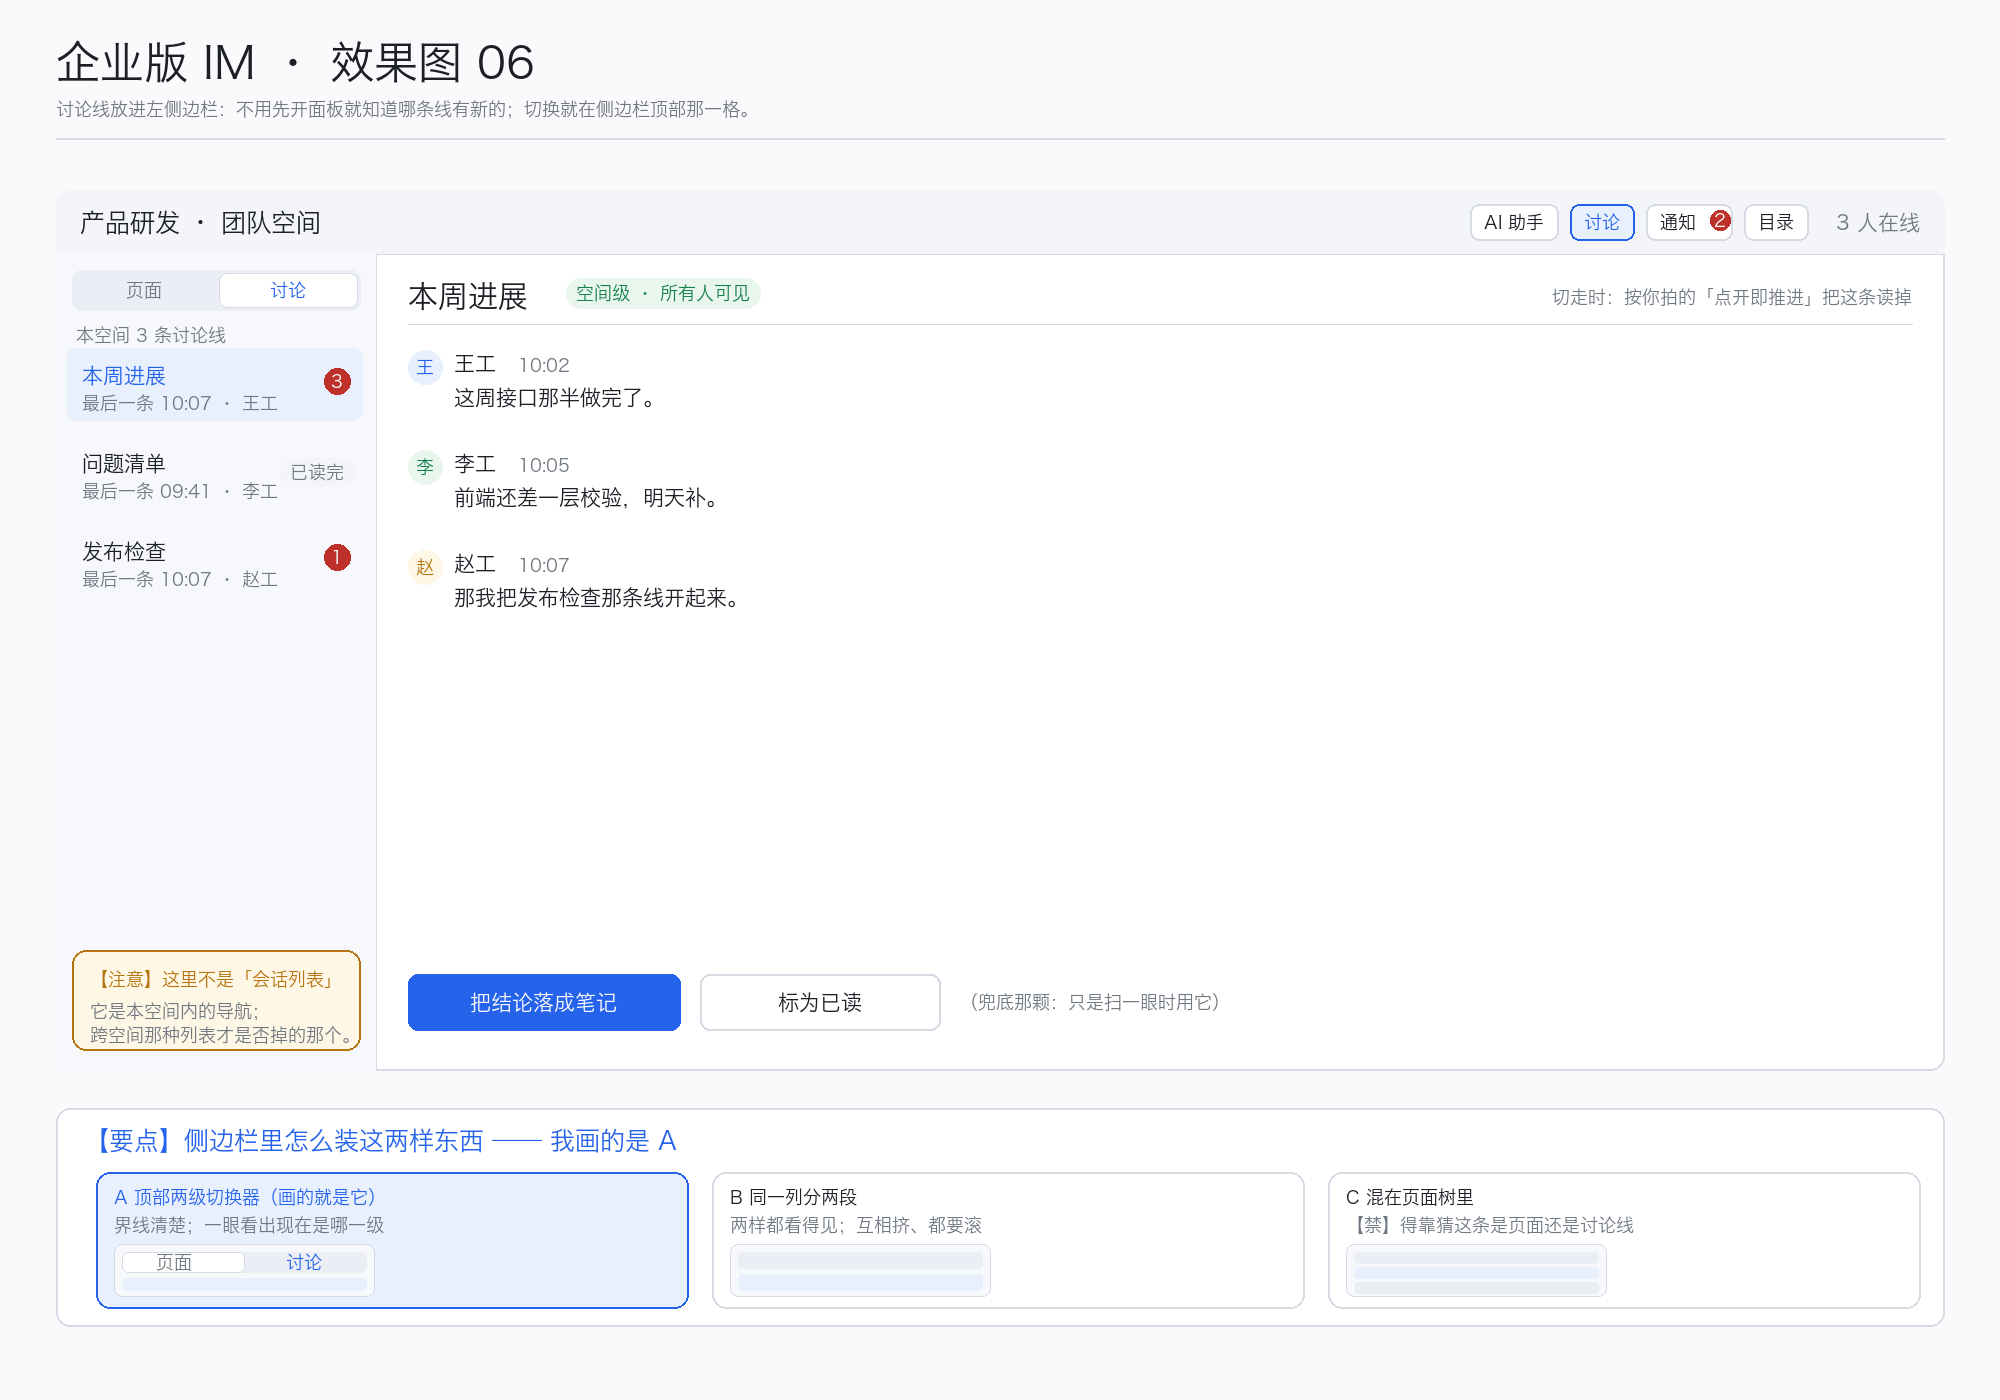
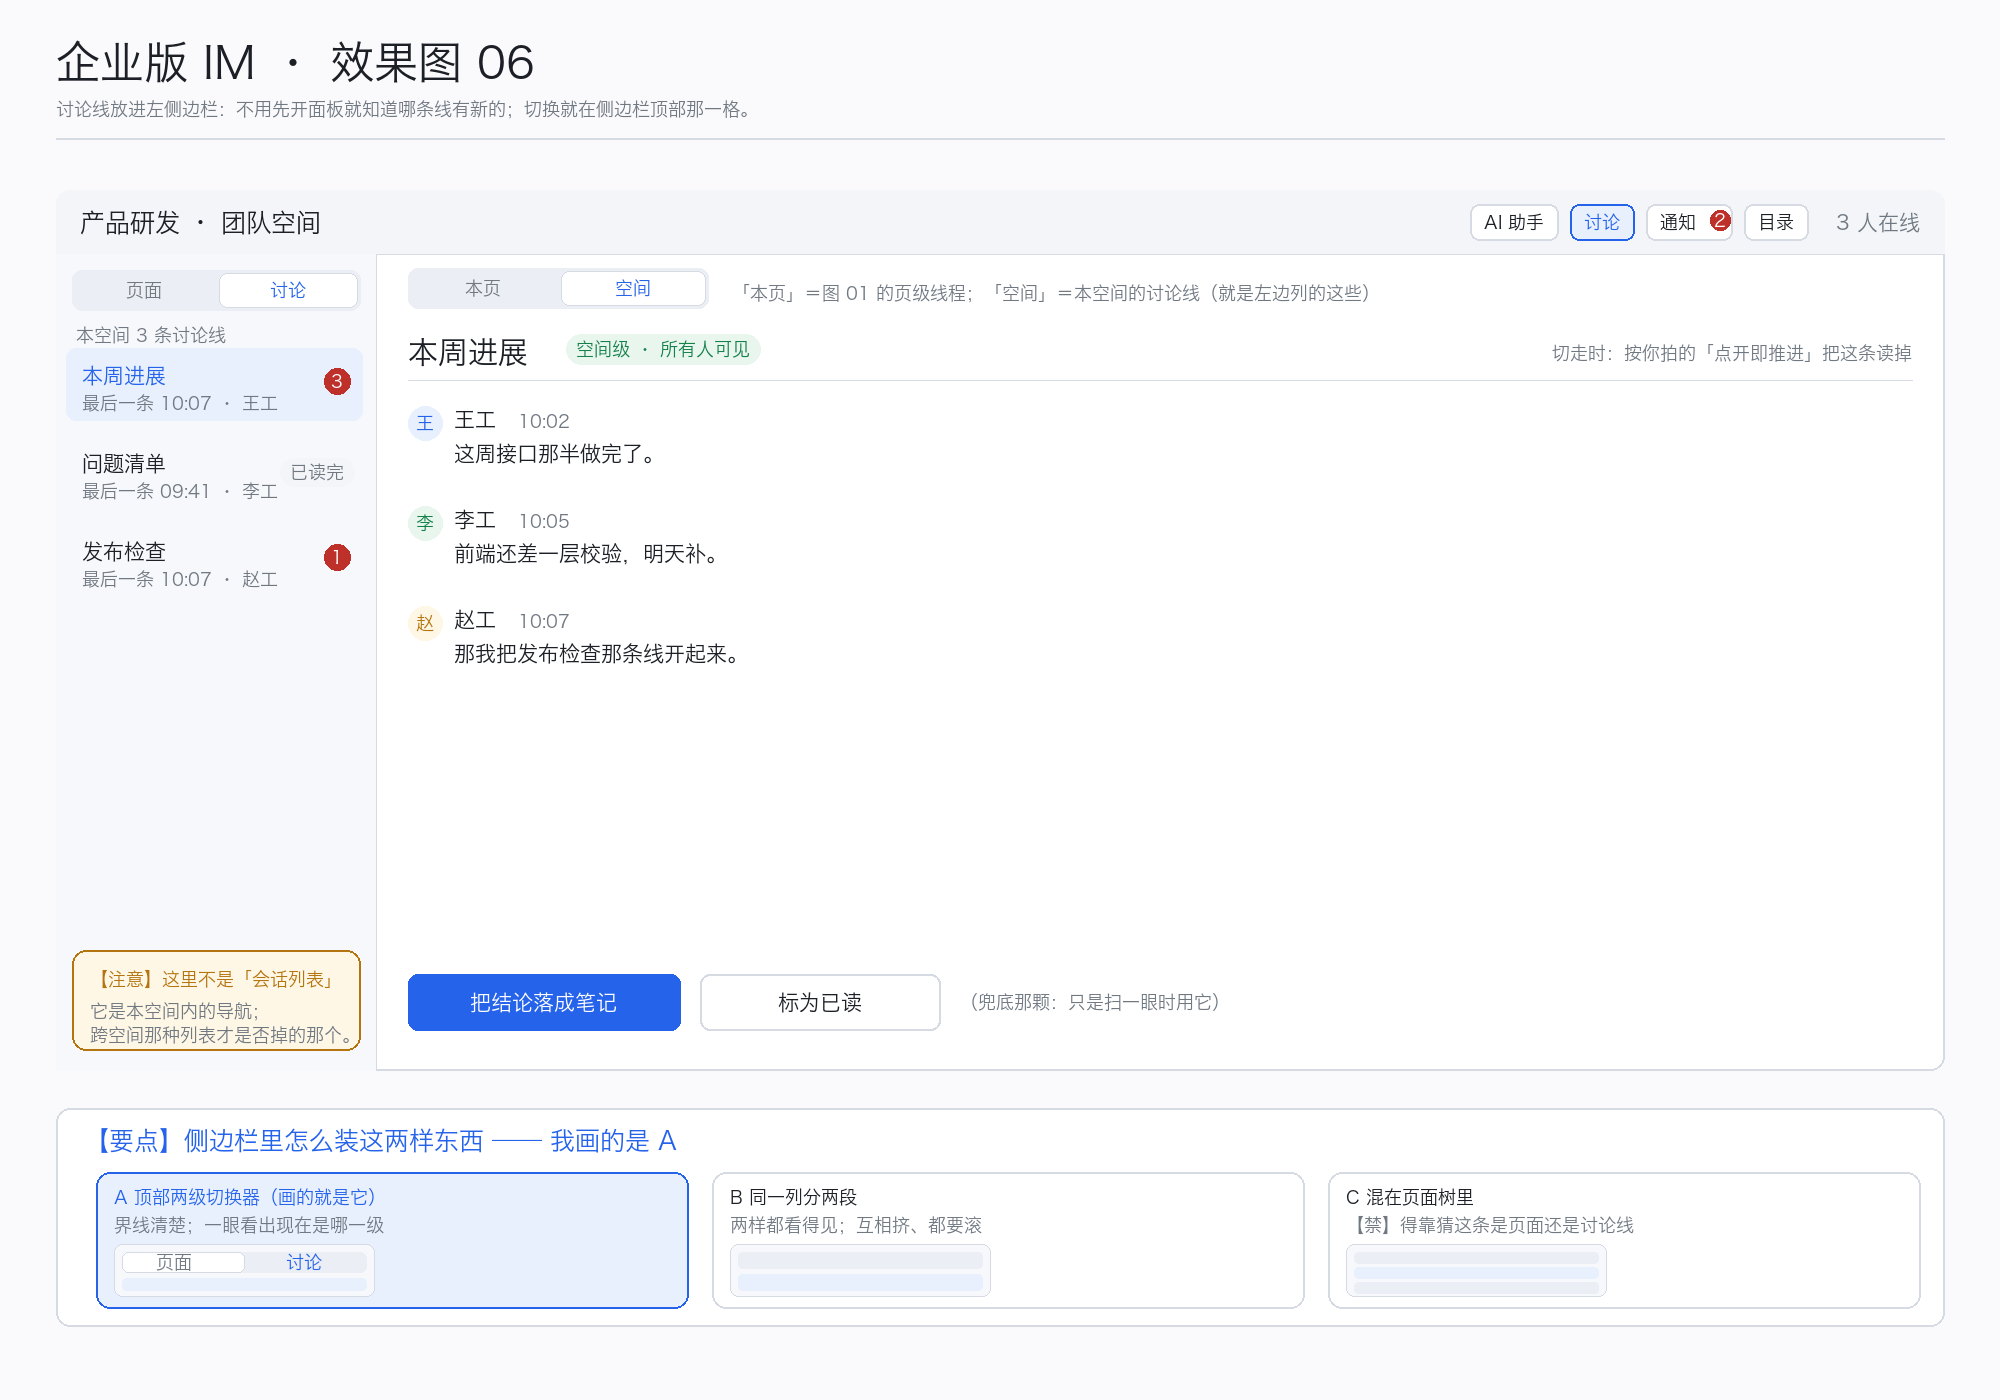
docs(design): 图 06 补两级标签页「本页 ｜ 空间」＋ 记下两条导航口径（owner 2026-10-01 已定）
owner 追加两条导航口径（都选 A）：
① 默认落在**上次那条**线（不是"未读最多"、也不是"总回第一条"）
② 页级与空间级用**两个标签页「本页 ｜ 空间」**（不是左右两栏、也不是一次只显一级）

图 06 相应补上：主区顶部那一行「本页 ｜ 空间」标签（空间选中）＋一行说明
（「本页」＝图 01 的页级线程；「空间」＝侧边栏那一列讨论线），并标明：
- "切走"就是"读过"的触发点 ⇒ 切线与标为已读是同一个动作
- 这两条**只写在设计层**（用户选择的是"先加效果图"，没让我新增规格那一节）
- ⚠ "导航与切换"在规格里**仍是空白**（写了数据形状／未读口径／频道落库，导航一个字没有）

读数：六张字形检查全部干净；check-doc-links 223 篇／1311 条全可达；
node scripts/test-report.mjs ⇒ 58 条门禁／失败 0／环境不具备 0／自报跳过 1。

diff --git a/design/enterprise-im/draw-im-mockups.py b/design/enterprise-im/draw-im-mockups.py
@@ -501,14 +501,17 @@ def sheet6():
     s.small(sx + 34, sy + sh - 44, "跨空间那种列表才是否掉的那个。", MUT)
     # 右侧：选中那条线
     mx, mw = ax + sw, aw - sw
-    s.t(mx + 32, sy + 26, "本周进展", F_H)
-    s.chip(mx + 190, sy + 24, "空间级 · 所有人可见", GREEN, GREEN_BG, h=30)
-    s.small(mx + mw - 32, sy + 34, "切走时：按你拍的「点开即推进」把这条读掉", MUT, "ra")
-    s.rule(mx + 32, sy + 70, mx + mw - 32)
+    # ⭐ 两级标签页「本页 ｜ 空间」（owner 2026-10-01 选 A）：页级线程与空间级线在这里切
+    s.switch2(mx + 32, sy + 14, 300, "本页", "空间", "空间")
+    s.small(mx + 356, sy + 30, "「本页」＝图 01 的页级线程；「空间」＝本空间的讨论线（就是左边列的这些）", MUT)
+    s.t(mx + 32, sy + 82, "本周进展", F_H)
+    s.chip(mx + 190, sy + 80, "空间级 · 所有人可见", GREEN, GREEN_BG, h=30)
+    s.small(mx + mw - 32, sy + 90, "切走时：按你拍的「点开即推进」把这条读掉", MUT, "ra")
+    s.rule(mx + 32, sy + 126, mx + mw - 32)
     msgs = [("王", "10:02", "这周接口那半做完了。", BLUE_BG, BLUE),
             ("李", "10:05", "前端还差一层校验，明天补。", GREEN_BG, GREEN),
             ("赵", "10:07", "那我把发布检查那条线开起来。", AMBER_BG, AMBER)]
-    yy = sy + 96
+    yy = sy + 152
     for who, tm, text, bg, fg in msgs:
         s.avatar(mx + 32, yy, who, fill=bg, fg=fg)
         s.t(mx + 78, yy + 2, who + "工", F_S)

diff --git a/design/enterprise-im/README.md b/design/enterprise-im/README.md
@@ -57,9 +57,21 @@ python3 design/enterprise-im/draw-im-mockups.py
 owner 拍的「**点开该线即推进**」正是在**切换**那一刻发生的 ✓；
 所以"切到另一条线"与"把这条标为已读"**是同一个动作**，⛔ 不是两件事 ✗（见 §1.1 第 ② 条 ✓）。
 
+### ⭐ 两条导航口径（owner 2026-10-01 已定，图 06 按它们画 ✓）
+
+```text
+① **默认落在哪条线 ⇒ 记住上次那条**（⛔ 不是"未读最多"、也不是"总回第一条"✗）
+② **页级与空间级怎么摆 ⇒ 两个标签页「本页 ｜ 空间」**（⛔ 不是左右两栏、也不是一次只显一级 ✗）
+   「本页」＝图 01 的页级线程；「空间」＝本空间的讨论线（就是侧边栏那一列 ✓）
+```
+
+⚠ 这两条**只写在这里（设计层）** ✗ —— 用户 2026-10-01 选择的是"先加效果图"，
+**没有**让我新增规格那一节 ⇒ ⛔ 别把它们读成已经进了规格 ✓。
+
 ⚠ 而**"怎么切"今天在规格里是一个空白** ✗ ——
 `2026-10-01-enterprise-im-spec.md` 写了数据形状／未读口径／频道怎么落库，
 **"导航与切换"一个字没有** ⇒ 图 06 是**设计意图**，⛔ 不是已定的规格 ✓。
+
 
 ## 1.1 ⭐ 顶端工具栏（owner 2026-10-01 的方向，**这六张都按它画** ✓）
 
